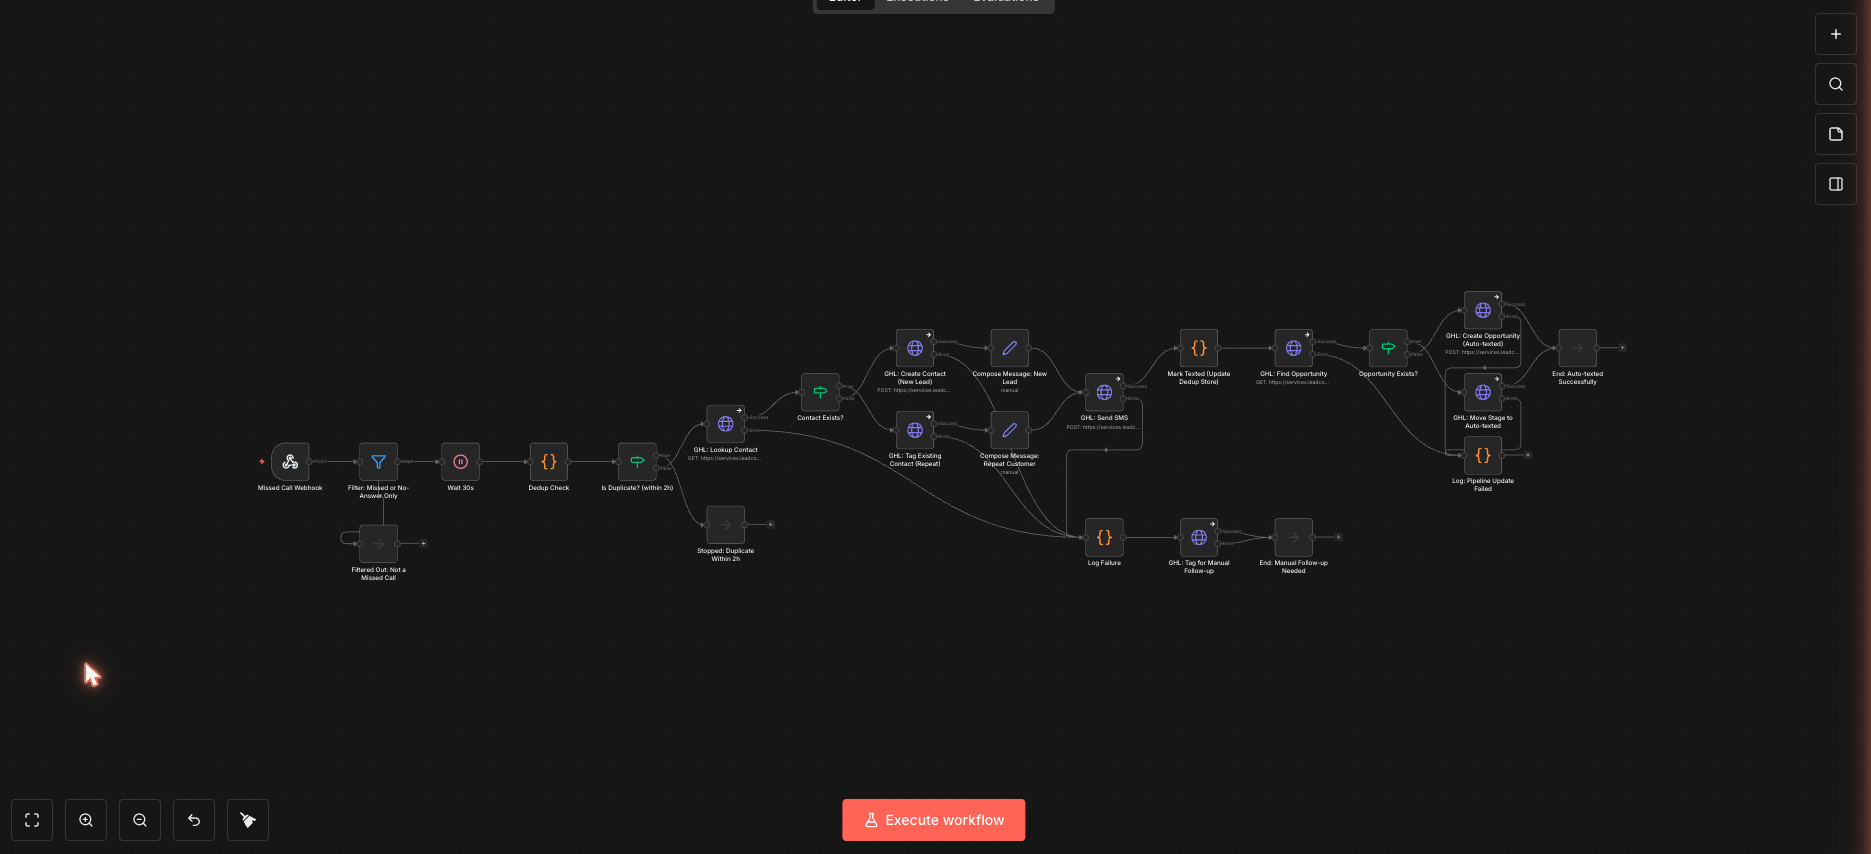
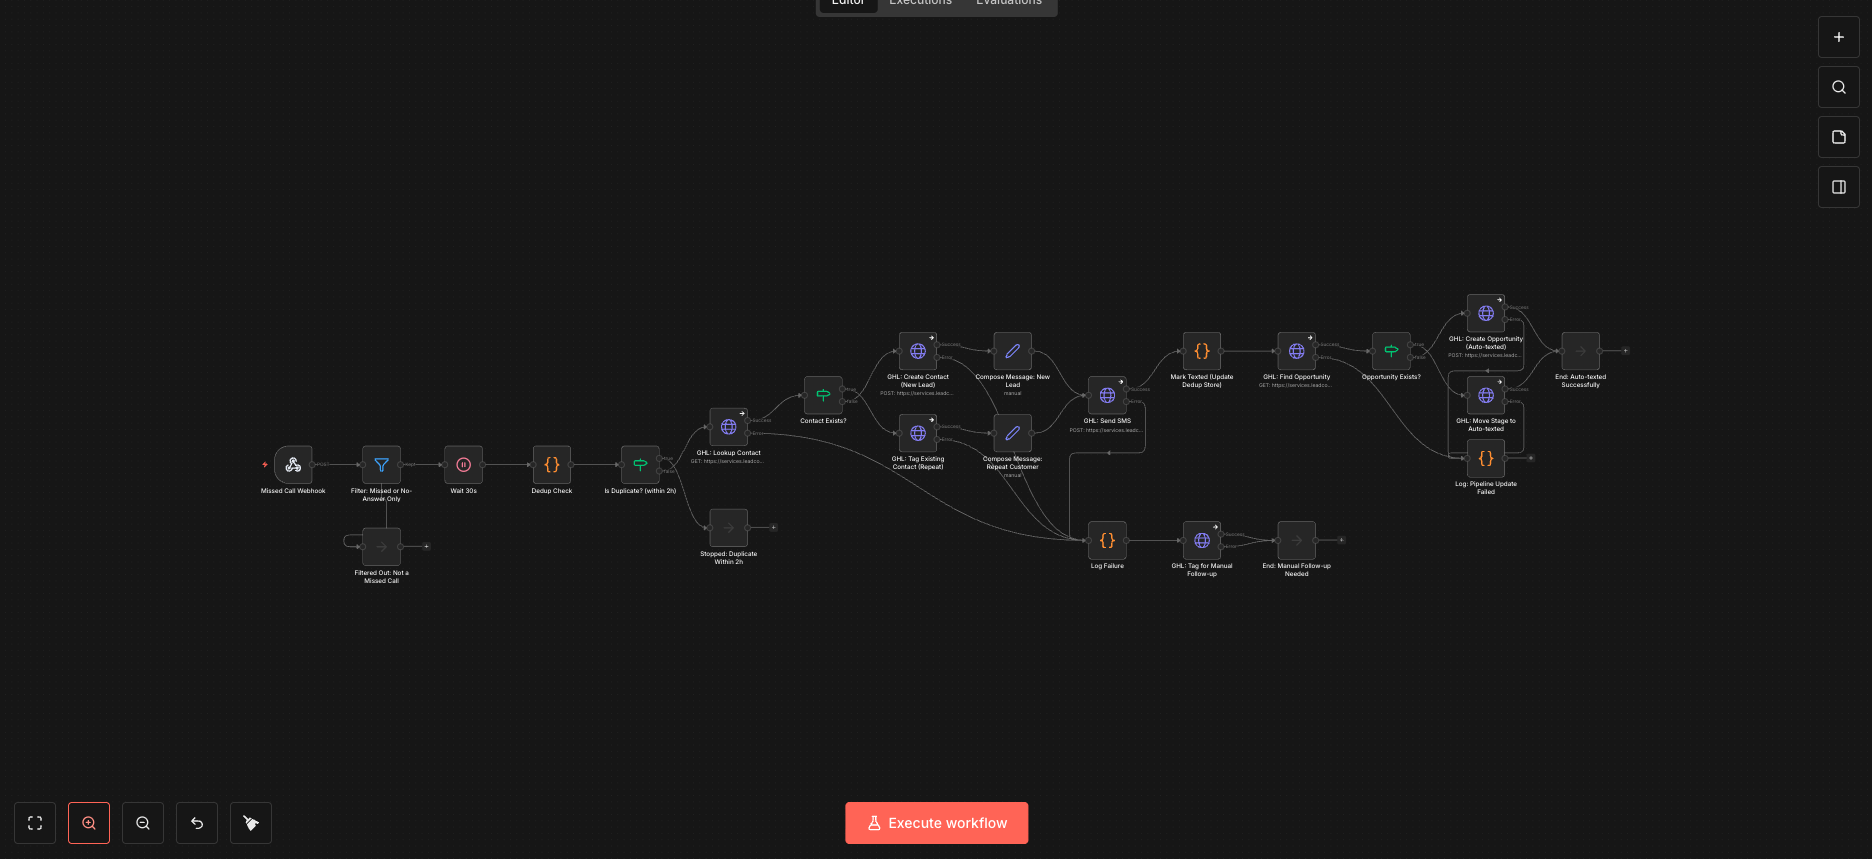
Replace workflow diagram with cleaner screenshot; add contributors section

diff --git a/README.md b/README.md
@@ -21,3 +21,8 @@ This went through two real failures before being called done: a wrong field path
 Account-specific identifiers (GHL location ID, pipeline ID, stage ID, credential reference, and stored phone numbers) have been replaced with placeholders in `missed-call-text-back.json`. The real workflow runs on a private n8n instance against a live GoHighLevel account — this file is for showing the logic and structure, not for re-importing and running as-is.
 
 To run it for real, you'd need your own GHL account, your own credential set up in n8n, and your own pipeline/stage IDs swapped back in.
+
+## Contributors
+
+- Sparsh Gupta
+- Yoda — Sparsh's Claude-based personal agent
